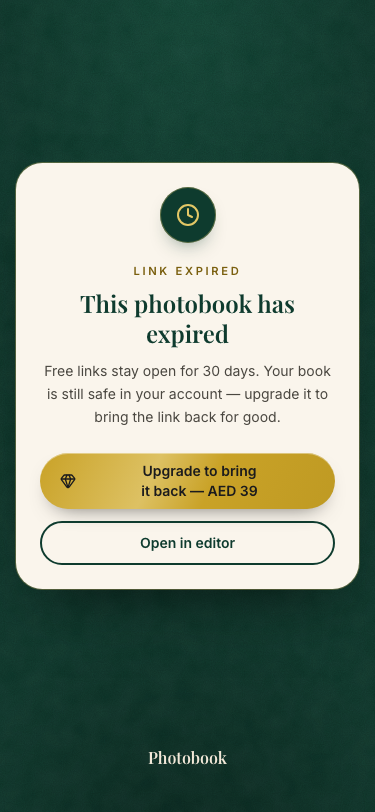
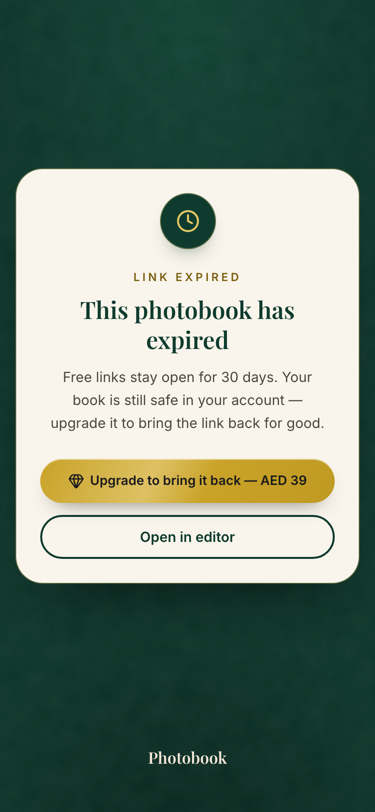
M23: viewer polish (Arabic contents alignment, end page edge, Upgrade fits on phones, no duplicate chapter date, balanced message text); checkpoint

diff --git a/src/components/viewer/ContentsSheet.tsx b/src/components/viewer/ContentsSheet.tsx
@@ -3,9 +3,12 @@
 // Contents: chapters in reading order with their date; tap jumps to the chapter's first page.
 // M23 T3: chapter card rows on the ivory sheet — the current chapter is the mint/emerald row
 // (aria-current), each row ends in a "p. N" chip. Title and date are user text: dir="auto" on the
-// inner spans, labelFontStyle (Cairo chain) on the title, no letter-spacing.
+// inner spans, labelFontStyle (Cairo chain) on the title, no letter-spacing. The text block is
+// text-left (absolute, inherited) so an Arabic title's dir="auto" doesn't flip it to the right while
+// its date stays left — every row starts at the left edge like the band. The date is skipped when
+// it repeats the title (chapterDate).
 
-import { chapterStarts, labelFontStyle, type ChapterStart, type ViewerChapter } from "@/lib/viewer/chapters";
+import { chapterDate, chapterStarts, labelFontStyle, type ChapterStart, type ViewerChapter } from "@/lib/viewer/chapters";
 import { isMainlyArabic } from "@/lib/review/ui";
 import { ViewerSheet } from "./ViewerSheet";
 import { VW_LIST_ROW, VW_LIST_ROW_ACTIVE, VW_LIST_ROW_META, VW_MUTED, VW_PAGE_CHIP, VW_PAGE_CHIP_ACTIVE } from "./viewer-classes";
@@ -34,6 +37,7 @@ export function ContentsSheet({
           {starts.map((s) => {
             const arabic = isMainlyArabic(s.chapter.title);
             const active = s.chapter.id === currentChapterId;
+            const date = chapterDate(s.chapter);
             return (
               <li key={s.chapter.id}>
                 <button
@@ -44,7 +48,7 @@ export function ContentsSheet({
                   data-chapter-id={s.chapter.id}
                   onClick={() => onJump(s.flipIndex, s)}
                 >
-                  <span className="min-w-0 flex-1">
+                  <span className="min-w-0 flex-1 text-left">
                     <span
                       dir="auto"
                       lang={arabic ? "ar" : undefined}
@@ -53,9 +57,9 @@ export function ContentsSheet({
                     >
                       {s.chapter.title}
                     </span>
-                    {s.chapter.dateLabel ? (
+                    {date ? (
                       <span dir="auto" className={VW_LIST_ROW_META}>
-                        {s.chapter.dateLabel}
+                        {date}
                       </span>
                     ) : null}
                   </span>

diff --git a/src/components/viewer/EndCard.tsx b/src/components/viewer/EndCard.tsx
@@ -105,10 +105,11 @@ function PaidEnd({ model, onReplay, onShare }: Omit<EndCardProps, "isPaid" | "fo
 // Free end card recipes (cqw versions of VW_MESSAGE_EYEBROW / _HEADING / _BODY; the gold action is
 // VW_CTA_GOLD_END_PORTRAIT / _LANDSCAPE, composed from VW_CTA_GOLD_LOOK). The
 // landscape page is only 148/210 as tall, so it gets a complete compact set (full alternatives: cx
-// doesn't merge conflicting utilities) — the portrait sizes would overflow it.
+// doesn't merge conflicting utilities) — the portrait sizes would overflow it. The frame is a
+// shade darker than the stage with a hairline border (not a ring/shadow) so the page edge reads.
 const FREE = {
   portrait: {
-    frame: "absolute inset-0 flex items-center justify-center bg-[#ede4d2] p-[7cqw]",
+    frame: "absolute inset-0 flex items-center justify-center border border-[#cfbe9a] bg-[#e8ddc6] p-[7cqw]",
     card: "vw-card-in flex w-full flex-col items-center gap-[4.5cqw] rounded-[5cqw] bg-[#faf5ec] px-[8cqw] py-[10cqw] text-center ring-1 ring-[#e3c766]/45",
     eyebrow: "text-[3.2cqw] font-semibold tracking-[0.24em] text-[#7a5f0e] uppercase",
     heading: "font-display text-[8cqw] leading-tight font-semibold text-[#0e3b2e]",
@@ -116,7 +117,7 @@ const FREE = {
     cta: `mt-[2cqw] ${VW_CTA_GOLD_END_PORTRAIT}`,
   },
   landscape: {
-    frame: "absolute inset-0 flex items-center justify-center bg-[#ede4d2] p-[4cqw]",
+    frame: "absolute inset-0 flex items-center justify-center border border-[#cfbe9a] bg-[#e8ddc6] p-[4cqw]",
     card: "vw-card-in flex w-full flex-col items-center gap-[2.5cqw] rounded-[3.5cqw] bg-[#faf5ec] px-[7cqw] py-[5cqw] text-center ring-1 ring-[#e3c766]/45",
     eyebrow: "text-[2.4cqw] font-semibold tracking-[0.24em] text-[#7a5f0e] uppercase",
     heading: "font-display text-[5.6cqw] leading-tight font-semibold text-[#0e3b2e]",

diff --git a/src/components/viewer/ChapterLabel.tsx b/src/components/viewer/ChapterLabel.tsx
@@ -1,8 +1,8 @@
-// Current chapter "title · dateLabel" (D-040: chapter headings live in viewer chrome only).
+// Current chapter "title · dateLabel" (date dropped when it repeats the title) (D-040: chapter headings live in viewer chrome only).
 // dir="auto" for Arabic titles, rendered in Cairo when the title is mainly Arabic.
 // `className` replaces the default look (the viewer band passes VW_SUBLINE: pale gold on leather).
 
-import { chapterLabel, labelFontStyle, type ViewerChapter } from "@/lib/viewer/chapters";
+import { chapterDate, chapterLabel, labelFontStyle, type ViewerChapter } from "@/lib/viewer/chapters";
 import { isMainlyArabic } from "@/lib/review/ui";
 
 export function ChapterLabel({
@@ -14,6 +14,7 @@ export function ChapterLabel({
   className?: string;
 }) {
   const text = chapterLabel(chapter);
+  const date = chapterDate(chapter);
   const arabic = chapter ? isMainlyArabic(chapter.title) : false;
   return (
     <p
@@ -29,8 +30,8 @@ export function ChapterLabel({
           {/* Title stays un-isolated so dir="auto" detects its direction; the date is isolated,
               otherwise "12 Feb" after an Arabic title reorders to "Feb 12". */}
           {chapter.title.trim()}
-          {chapter.title.trim() && chapter.dateLabel?.trim() ? " · " : null}
-          {chapter.dateLabel?.trim() ? <bdi>{chapter.dateLabel.trim()}</bdi> : null}
+          {chapter.title.trim() && date ? " · " : null}
+          {date ? <bdi>{date}</bdi> : null}
         </>
       ) : (
         "\u00a0"

diff --git a/tests/viewer-chrome.test.ts b/tests/viewer-chrome.test.ts
@@ -1,5 +1,5 @@
 import { describe, expect, it } from "vitest";
-import { chapterForPage, chapterLabel, chapterStarts, labelFontStyle } from "@/lib/viewer/chapters";
+import { chapterDate, chapterForPage, chapterLabel, chapterStarts, labelFontStyle } from "@/lib/viewer/chapters";
 import {
   firstVisiblePageIdx,
   flipLayout,
@@ -110,6 +110,16 @@ describe("chapters", () => {
     expect(chapterLabel(doc.chapters[1])).toBe("عشاء العائلة");
     expect(chapterLabel({ title: " ", dateLabel: "May" })).toBe("May");
     expect(chapterLabel(null)).toBe("");
+  });
+  it("skips the date when it repeats the title", () => {
+    expect(chapterLabel({ title: "15 Nov 2026", dateLabel: "15 Nov 2026" })).toBe("15 Nov 2026");
+    expect(chapterLabel({ title: " 15 nov 2026 ", dateLabel: "15 Nov 2026 " })).toBe("15 nov 2026");
+    expect(chapterDate({ title: "15 Nov 2026", dateLabel: "15 Nov 2026" })).toBe("");
+    expect(chapterDate({ title: "Arrival", dateLabel: " 12 Feb " })).toBe("12 Feb");
+    expect(chapterDate({ title: "Arrival", dateLabel: null })).toBe("");
+    expect(chapterDate(null)).toBe("");
+    // A title that only contains the date still shows it.
+    expect(chapterLabel({ title: "Arrival 12 Feb", dateLabel: "12 Feb" })).toBe("Arrival 12 Feb · 12 Feb");
   });
   it("Arabic labels get Cairo first", () => {
     expect(labelFontStyle("عشاء العائلة")?.fontFamily).toMatch(/^var\(--font-cairo\)/);

diff --git a/src/components/viewer/public/ExpiredBookScreen.tsx b/src/components/viewer/public/ExpiredBookScreen.tsx
@@ -9,7 +9,7 @@
 
 import { Clock } from "lucide-react";
 import type { ReactNode } from "react";
-import { VW_CTA_EMERALD_OUTLINE, VW_CTA_GOLD } from "@/components/viewer/viewer-classes";
+import { VW_CTA_EMERALD_OUTLINE, VW_CTA_GOLD, VW_CTA_GOLD_LOOK } from "@/components/viewer/viewer-classes";
 import { cx } from "@/lib/cx";
 import { UPGRADE } from "@/lib/pricing";
 import { CREATE_YOURS_HREF } from "@/lib/viewer/share";
@@ -17,7 +17,12 @@ import { ViewerMessage } from "./ViewerMessage";
 
 /** The owner's gold Upgrade button label and classes (the screen's one gold action). */
 export const EXPIRED_UPGRADE_LABEL = `Upgrade to bring it back — ${UPGRADE.label}`;
-export const EXPIRED_UPGRADE_CLASS = cx(VW_CTA_GOLD, "w-full py-2 text-balance");
+// VW_CTA_GOLD's look with tighter sides / gap / 13 px text below sm (full alternative — cx doesn't
+// merge), so the label fits one line beside the gem at 375 px; still min-h-11 (44 px).
+export const EXPIRED_UPGRADE_CLASS = cx(
+  VW_CTA_GOLD_LOOK,
+  "w-full gap-1.5 px-4 py-2 text-[13px] text-balance disabled:cursor-not-allowed disabled:opacity-60 sm:gap-2 sm:px-5 sm:text-sm",
+);
 
 export function ExpiredBookScreen({
   isOwner,

diff --git a/src/lib/viewer/chapters.ts b/src/lib/viewer/chapters.ts
@@ -48,10 +48,21 @@ export function chapterStarts(doc: ChapterDoc): ChapterStart[] {
   return out;
 }
 
-/** "title · dateLabel" (either part may be missing; "" when both are). */
+/**
+ * The chapter's date to show next to its title: trimmed dateLabel, or "" when missing or when it
+ * repeats the title (date-titled chapters would otherwise read "15 Nov 2026 · 15 Nov 2026").
+ */
+export function chapterDate(ch: Pick<ViewerChapter, "title" | "dateLabel"> | null): string {
+  if (!ch) return "";
+  const date = (ch.dateLabel ?? "").trim();
+  if (!date) return "";
+  return date.toLocaleLowerCase() === ch.title.trim().toLocaleLowerCase() ? "" : date;
+}
+
+/** "title · date" (either part may be missing; "" when both are; date skipped when it equals the title). */
 export function chapterLabel(ch: Pick<ViewerChapter, "title" | "dateLabel"> | null): string {
   if (!ch) return "";
-  return [ch.title.trim(), (ch.dateLabel ?? "").trim()].filter(Boolean).join(" · ");
+  return [ch.title.trim(), chapterDate(ch)].filter(Boolean).join(" · ");
 }
 
 /** Inline font for UI text that may be Arabic (chapter titles, book title): Cairo when mainly Arabic. */

diff --git a/tests/m23-viewer-sheets.test.tsx b/tests/m23-viewer-sheets.test.tsx
@@ -113,6 +113,17 @@ describe("ContentsSheet", () => {
     expect(html).not.toContain("aria-current");
   });
 
+  it("rows' text block is text-left (Arabic titles start where the date does); a date equal to the title is skipped", () => {
+    const dated = {
+      chapters: [{ id: "ch-d", title: "15 Nov 2026", dateLabel: "15 Nov 2026" }],
+      pages: [{ chapterId: "ch-d" }],
+    };
+    const html = renderToStaticMarkup(<ContentsSheet open onClose={() => {}} doc={dated} currentChapterId={null} onJump={() => {}} />);
+    expect(html.match(/15 Nov 2026/g)).toHaveLength(1);
+    const plain = renderToStaticMarkup(<ContentsSheet open onClose={() => {}} doc={doc} currentChapterId={null} onJump={() => {}} />);
+    expect(plain.match(/<span class="min-w-0 flex-1 text-left">/g)).toHaveLength(2);
+  });
+
   it("tap jumps to the chapter's first page (unchanged)", () => {
     const onJump = vi.fn();
     mount(<ContentsSheet open onClose={() => {}} doc={doc} currentChapterId="ch-a" onJump={onJump} />);

diff --git a/src/components/viewer/public/ViewerMessage.tsx b/src/components/viewer/public/ViewerMessage.tsx
@@ -49,7 +49,7 @@ export function ViewerMessage({
             {title}
           </h1>
           {description ? (
-            <p dir="auto" className={cx(VW_MESSAGE_BODY, "mx-auto mt-3 max-w-xs")}>
+            <p dir="auto" className={cx(VW_MESSAGE_BODY, "mx-auto mt-3 max-w-xs text-balance")}>
               {description}
             </p>
           ) : null}

diff --git a/.agentos/memory/lessons.md b/.agentos/memory/lessons.md
@@ -158,3 +158,6 @@ Things that went wrong or surprised us, so no agent repeats them. Format: `- (YY
 - (M22) A client import of an editor module from another route (even a dev page) stops webpack merging it into the editor chunk (~1.3 kB gz) — build dev fixtures on the server page and pass data as props.
 - (M22) Measure first-load with an exact gzip sum of the route's chunks from app-build-manifest.json (Next rounds to whole kB). Never put a translate animation on an ancestor of the crop box or dnd grids; any element with a Tailwind ring/shadow is blanked while a box-shadow keyframe runs (use outline).
 - (M22) cx doesn't merge conflicting utilities: idle/active recipes must be full alternatives; to hide a recipe element below a breakpoint wrap it in `hidden lg:block`.
+- (M23) A dev preview page that renders /b client screens changes /b's chunking (+13 kB on dev-viewer): split screens into server-safe markup components with client islands as slots, and render static stand-ins in dev.
+- (M23) Book "shadow" in page-flip = paint-only stage background placed from fitBook(), never box-shadow on the book box (spread half-shadow); check in-page cqw text on A5 landscape (0.7 height).
+- (M23) dir="auto" blocks under text-align:start flip for RTL — set text-left on the row wrapper when lines must share an edge. Start e2e drags inside .stf__block.

diff --git a/docs/PLAN.md b/docs/PLAN.md
@@ -244,6 +244,9 @@ Plan: `.agentos/runs/m13.md`, D-070.
 ## Milestone 22 — Editor in the emerald style (2026-11-15)
 - [x] Restyle-only editor redesign (D-074): compact emerald band (title, save chip, page count ≥lg, gold Share), cream stage with framed page, thumbnail-card strip, floating pill toolbar, card panels (side panel ≥lg, sheets on phones), emerald tool panels, editor-shaped loading skeleton; BookPage/layouts/goldens untouched; first load +2.67 kB. Report: `.agentos/runs/m22.md`. Deployed 2026-11-15.
 
+## Milestone 23 — Flipbook viewer in the emerald style (2026-11-16)
+- [x] Restyle-only /b/[slug] redesign (D-075): slim emerald band (title, chapter, Contents/Share/Fullscreen), cream stage with paint-only shadow pool, nav pill, card sheets, cream free end card with gold Create yours, leather + cream-card password/expired/unavailable/not-found screens; Flipbook/BookPage/watermark/OG untouched; /b first load +2.3 kB. Report: `.agentos/runs/m23.md`.
+
 ## Milestone 10+ — After launch
 - [ ] Printing in the UAE (print-shop partner, print-ready PDF, address checkout, Aramex delivery, `/admin/orders`)
 - [ ] AI "story mode": a short paragraph per chapter (AI-picked backgrounds moved into M10c)

diff --git a/.agentos/runs/m23.md b/.agentos/runs/m23.md
@@ -48,3 +48,7 @@ T1 foundations → T2 shell/band/stage/nav/footer ∥ T3 sheets (ViewerSheet, Co
 - Manual: touch swipe, flips, stage height constant, no fold seam 997–1003/1280, pool placement, reduced motion 0 anims, axe 0, Arabic OK, watermark 13 free / 0 paid.
 - e2e/m11.spec.ts: +5 dev-viewer state audits. Screens docs/design/m23-viewer-*.png (30). Cleanup to baseline.
 - Visual polish notes: Contents Arabic row alignment; free end page edge faint; expired-owner Upgrade wraps at 375; chapter line "date · date" when title == date; password body orphan.
+
+## Polish — frontend-builder — done
+- Contents rows text-left (Arabic consistent); chapterDate() hides date equal to title (band + Contents; tests); free end frame hairline border; expired-owner Upgrade fits one line at 375; message body text-balance. Screens retaken.
+- Checks: lint, typecheck, npm test 7876.

diff --git a/.agentos/memory/progress.md b/.agentos/memory/progress.md
@@ -214,3 +214,6 @@ Format: `## YYYY-MM-DD — Milestone N — status` then 3–6 bullets: what was 
 
 ## 2026-11-15 — Milestone 22 (Editor in the emerald style) — done + deployed
 - Restyle-only editor redesign (D-074); tested AI off + replay + signed-out; reviewer APPROVED; /books/[id]/edit +2.67 kB gz.
+
+## 2026-11-16 — Milestone 23 (Viewer in the emerald style) — done, awaiting deploy OK
+- Restyle-only viewer (D-075); tested signed-out + live AI off/replay; reviewer APPROVED; /b +2.3 kB; watermark/OG/analytics unchanged.
